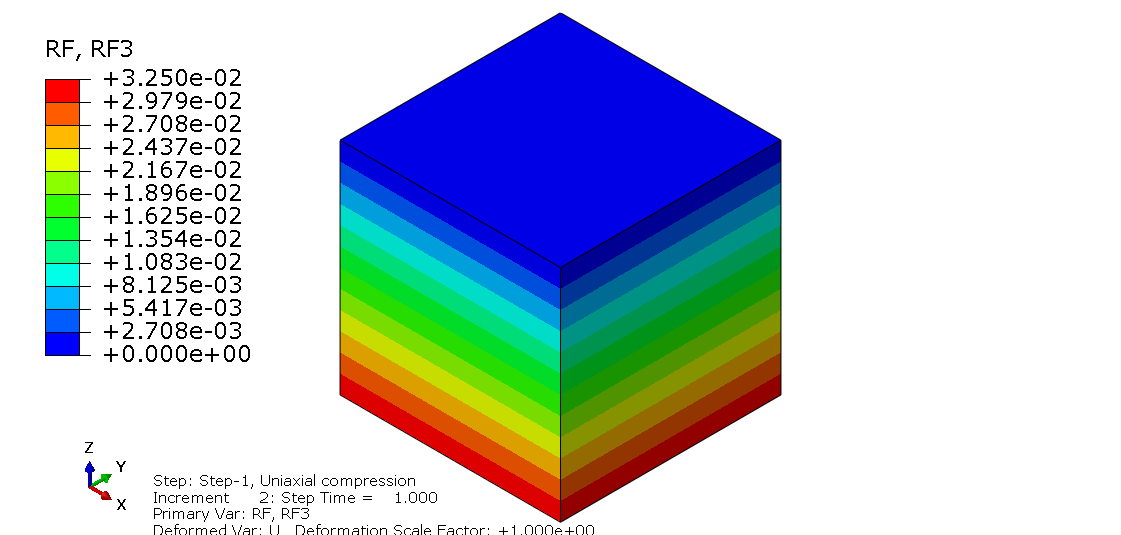
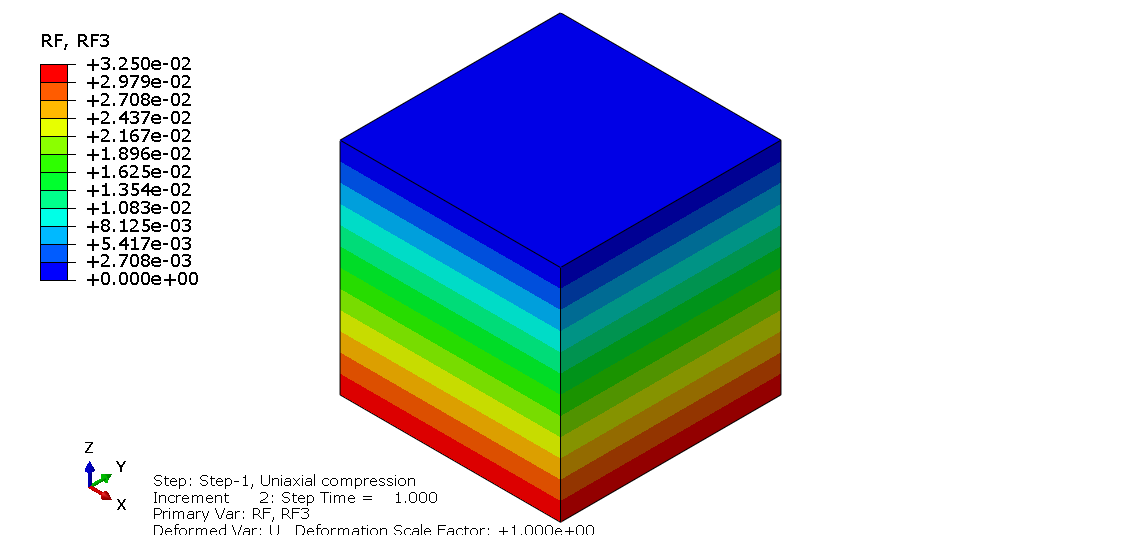
add doc

Changed region(s): [[0.0312, 0.0598, 0.2186, 0.6879]]

diff --git a/01_Lesson/abaqus_input_files/post_process_plots.py b/01_Lesson/abaqus_input_files/post_process_plots.py
@@ -85,7 +85,7 @@ for i in range(0,len(fNum)):
 	session.viewports['Viewport: 1'].odbDisplay.commonOptions.setValues(deformationScaling=UNIFORM, uniformScaleFactor=1)
 	
 	# set legend font size
-	v.viewportAnnotationOptions.setValues(legendFont='-*-verdana-medium-r-normal-*-*-180-*-*-p-*-*-*')
+	session.viewports['Viewport: 1'].viewportAnnotationOptions.setValues(legendFont='-*-verdana-medium-r-normal-*-*-140-*-*-p-*-*-*')
 
 	# legend - no bounding box
 	session.viewports['Viewport: 1'].viewportAnnotationOptions.setValues(legendBox=OFF)
